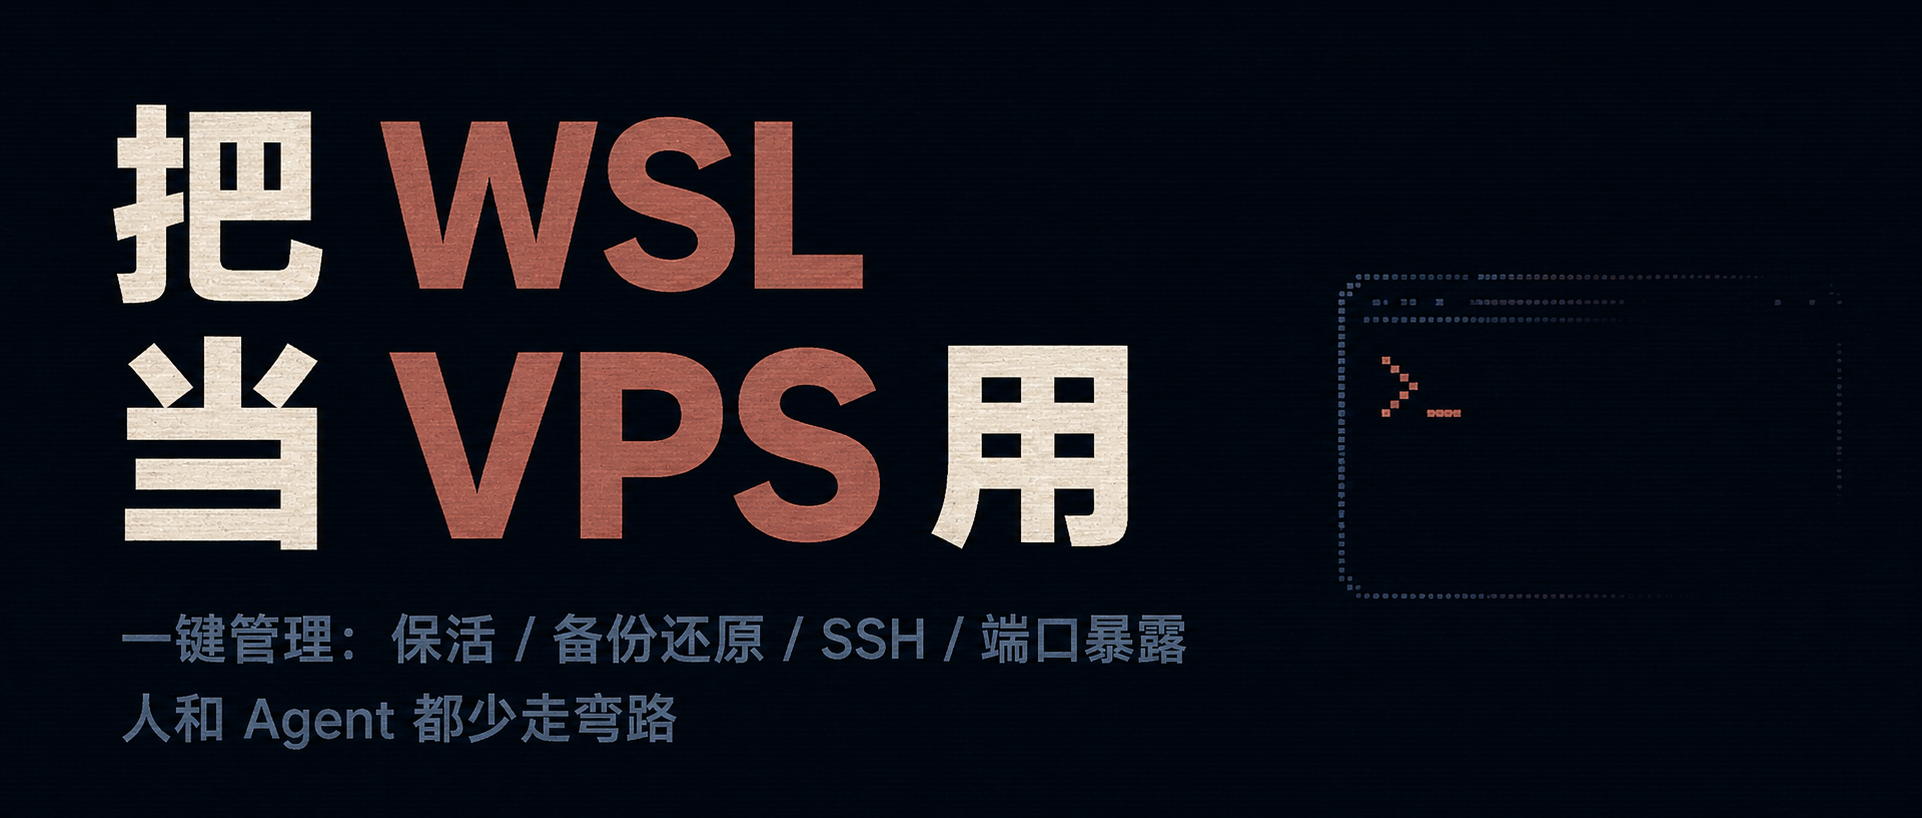
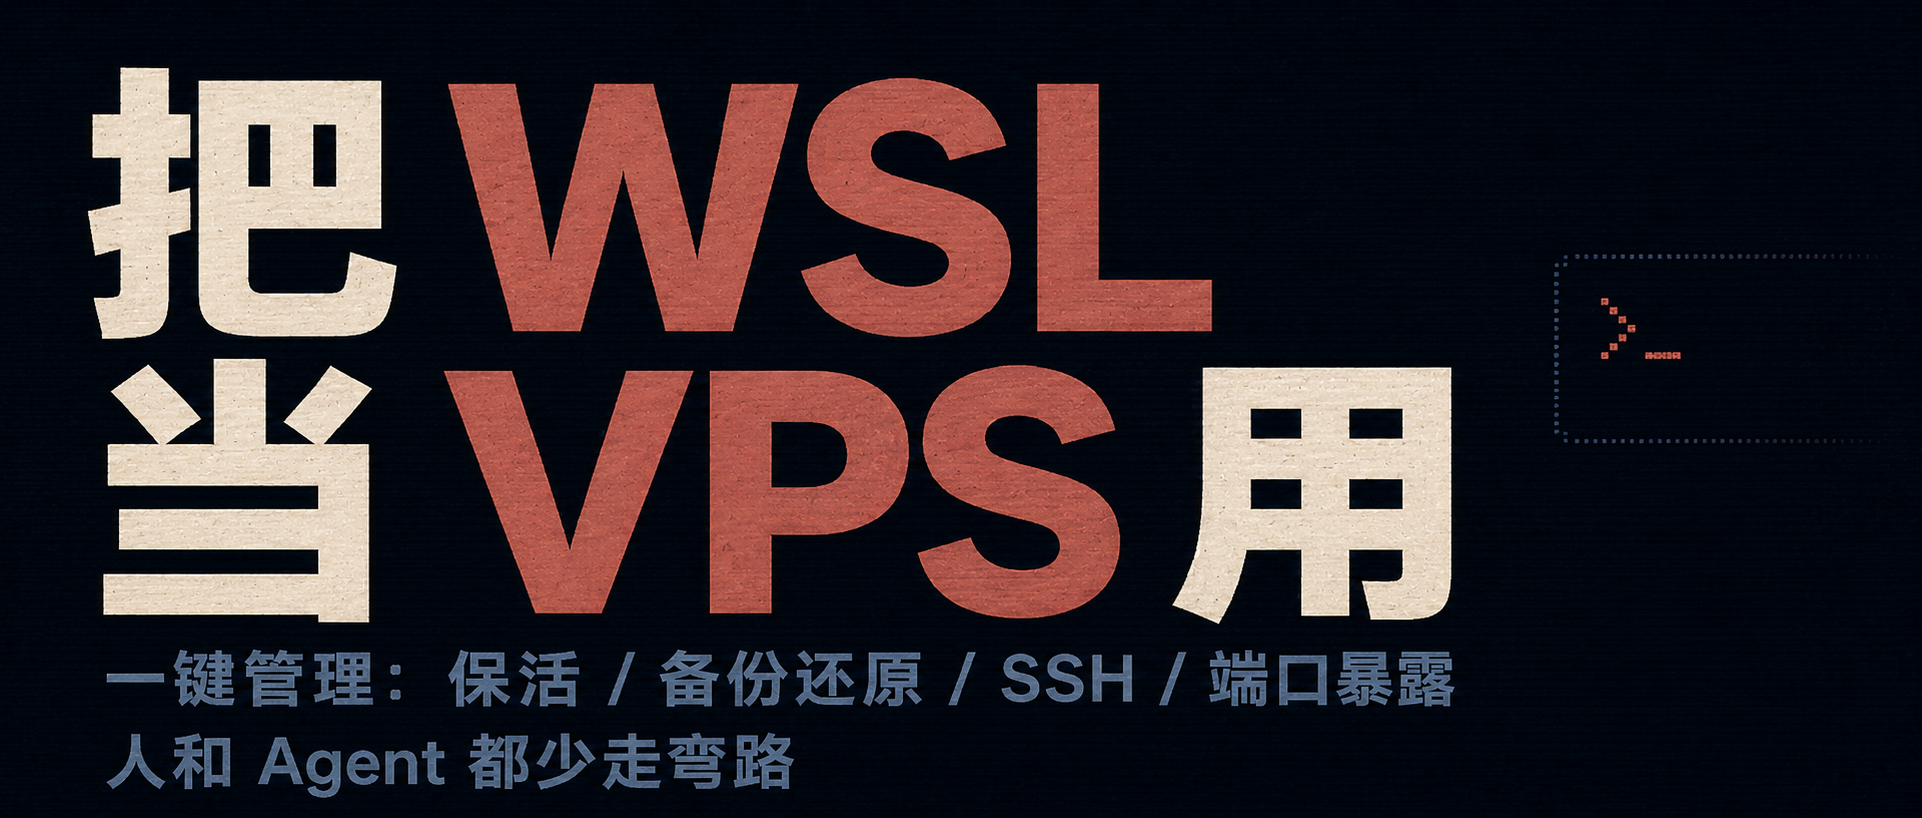
fix

Changed region(s): [[0.0312, 0.0611, 0.7804, 0.978], [0.6868, 0.3362, 0.8429, 0.3973], [0.8429, 0.4279, 0.8741, 0.4584]]

diff --git a/content/d/wsl/swaw-kit-wsl/index.md b/content/d/wsl/swaw-kit-wsl/index.md
@@ -4,7 +4,7 @@ draft: false
 title: "Turn Every WSL Instance into One Command"
 slug: "swaw-kit-wsl-release"
 description: "The English translation is being prepared. Please read the Simplified Chinese version for now."
-share_image: swaw-kit-wsl-cover.jpg
+share_image: swaw-kit-wsl-cover.png
 outputs:
  - HTML
  - AGENT_MARKDOWN

diff --git a/content/d/wsl/swaw-kit-wsl/index.zh-tw.md b/content/d/wsl/swaw-kit-wsl/index.zh-tw.md
@@ -4,7 +4,7 @@ draft: false
 title: "把每個 WSL 實例變成一條命令"
 slug: "swaw-kit-wsl-release"
 description: "繁體中文（台灣）版本正在準備中，目前請先閱讀簡體中文版。"
-share_image: swaw-kit-wsl-cover.jpg
+share_image: swaw-kit-wsl-cover.png
 outputs:
  - HTML
  - AGENT_MARKDOWN
